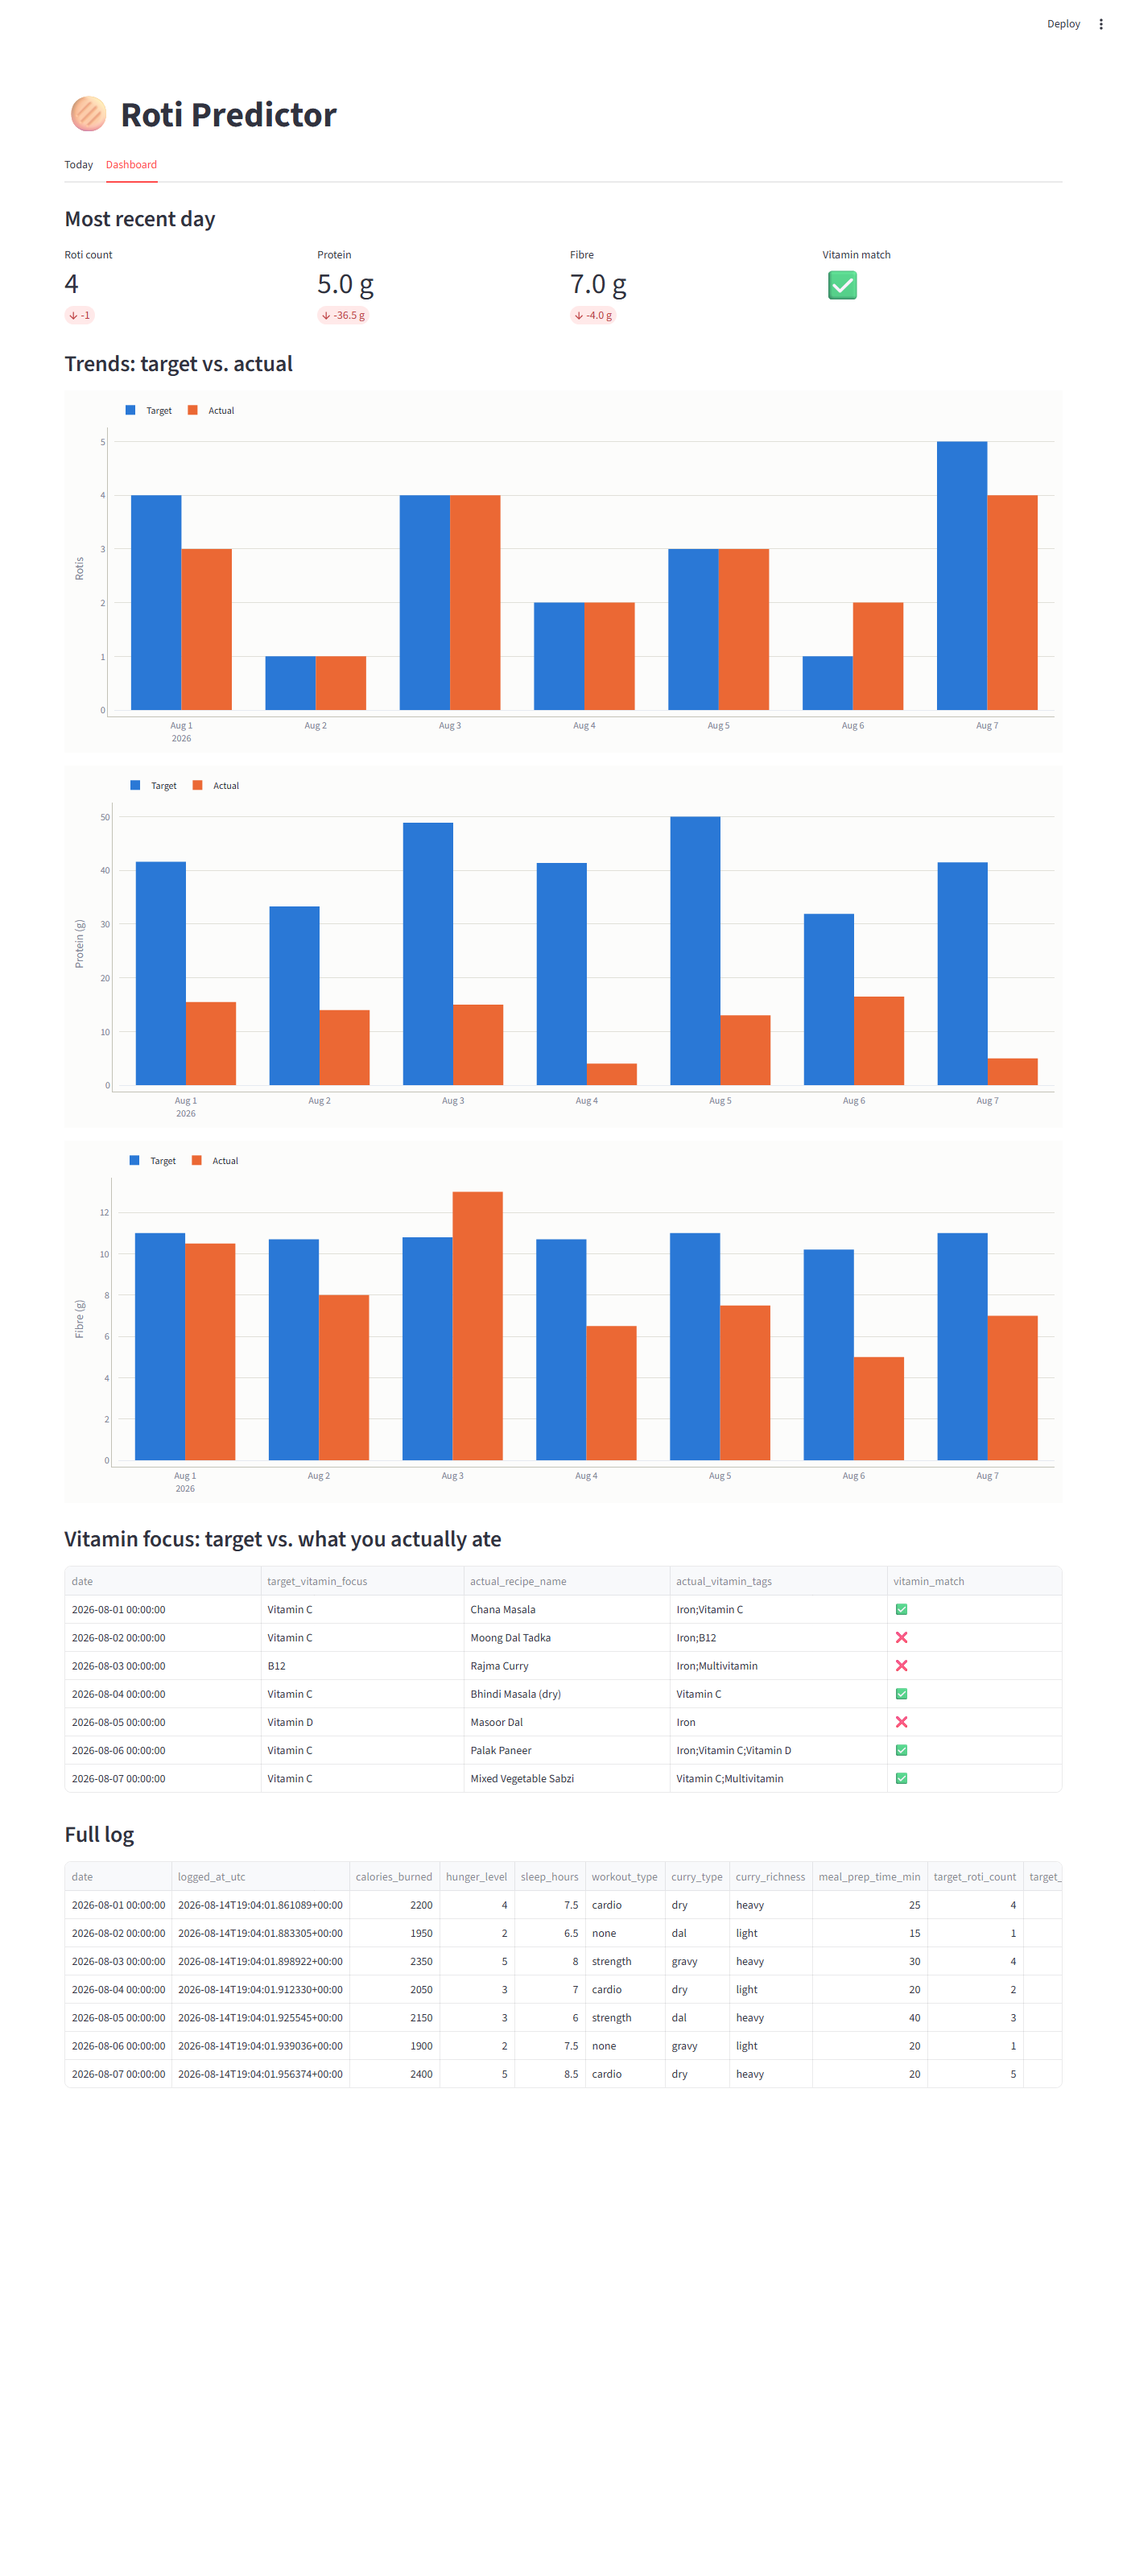
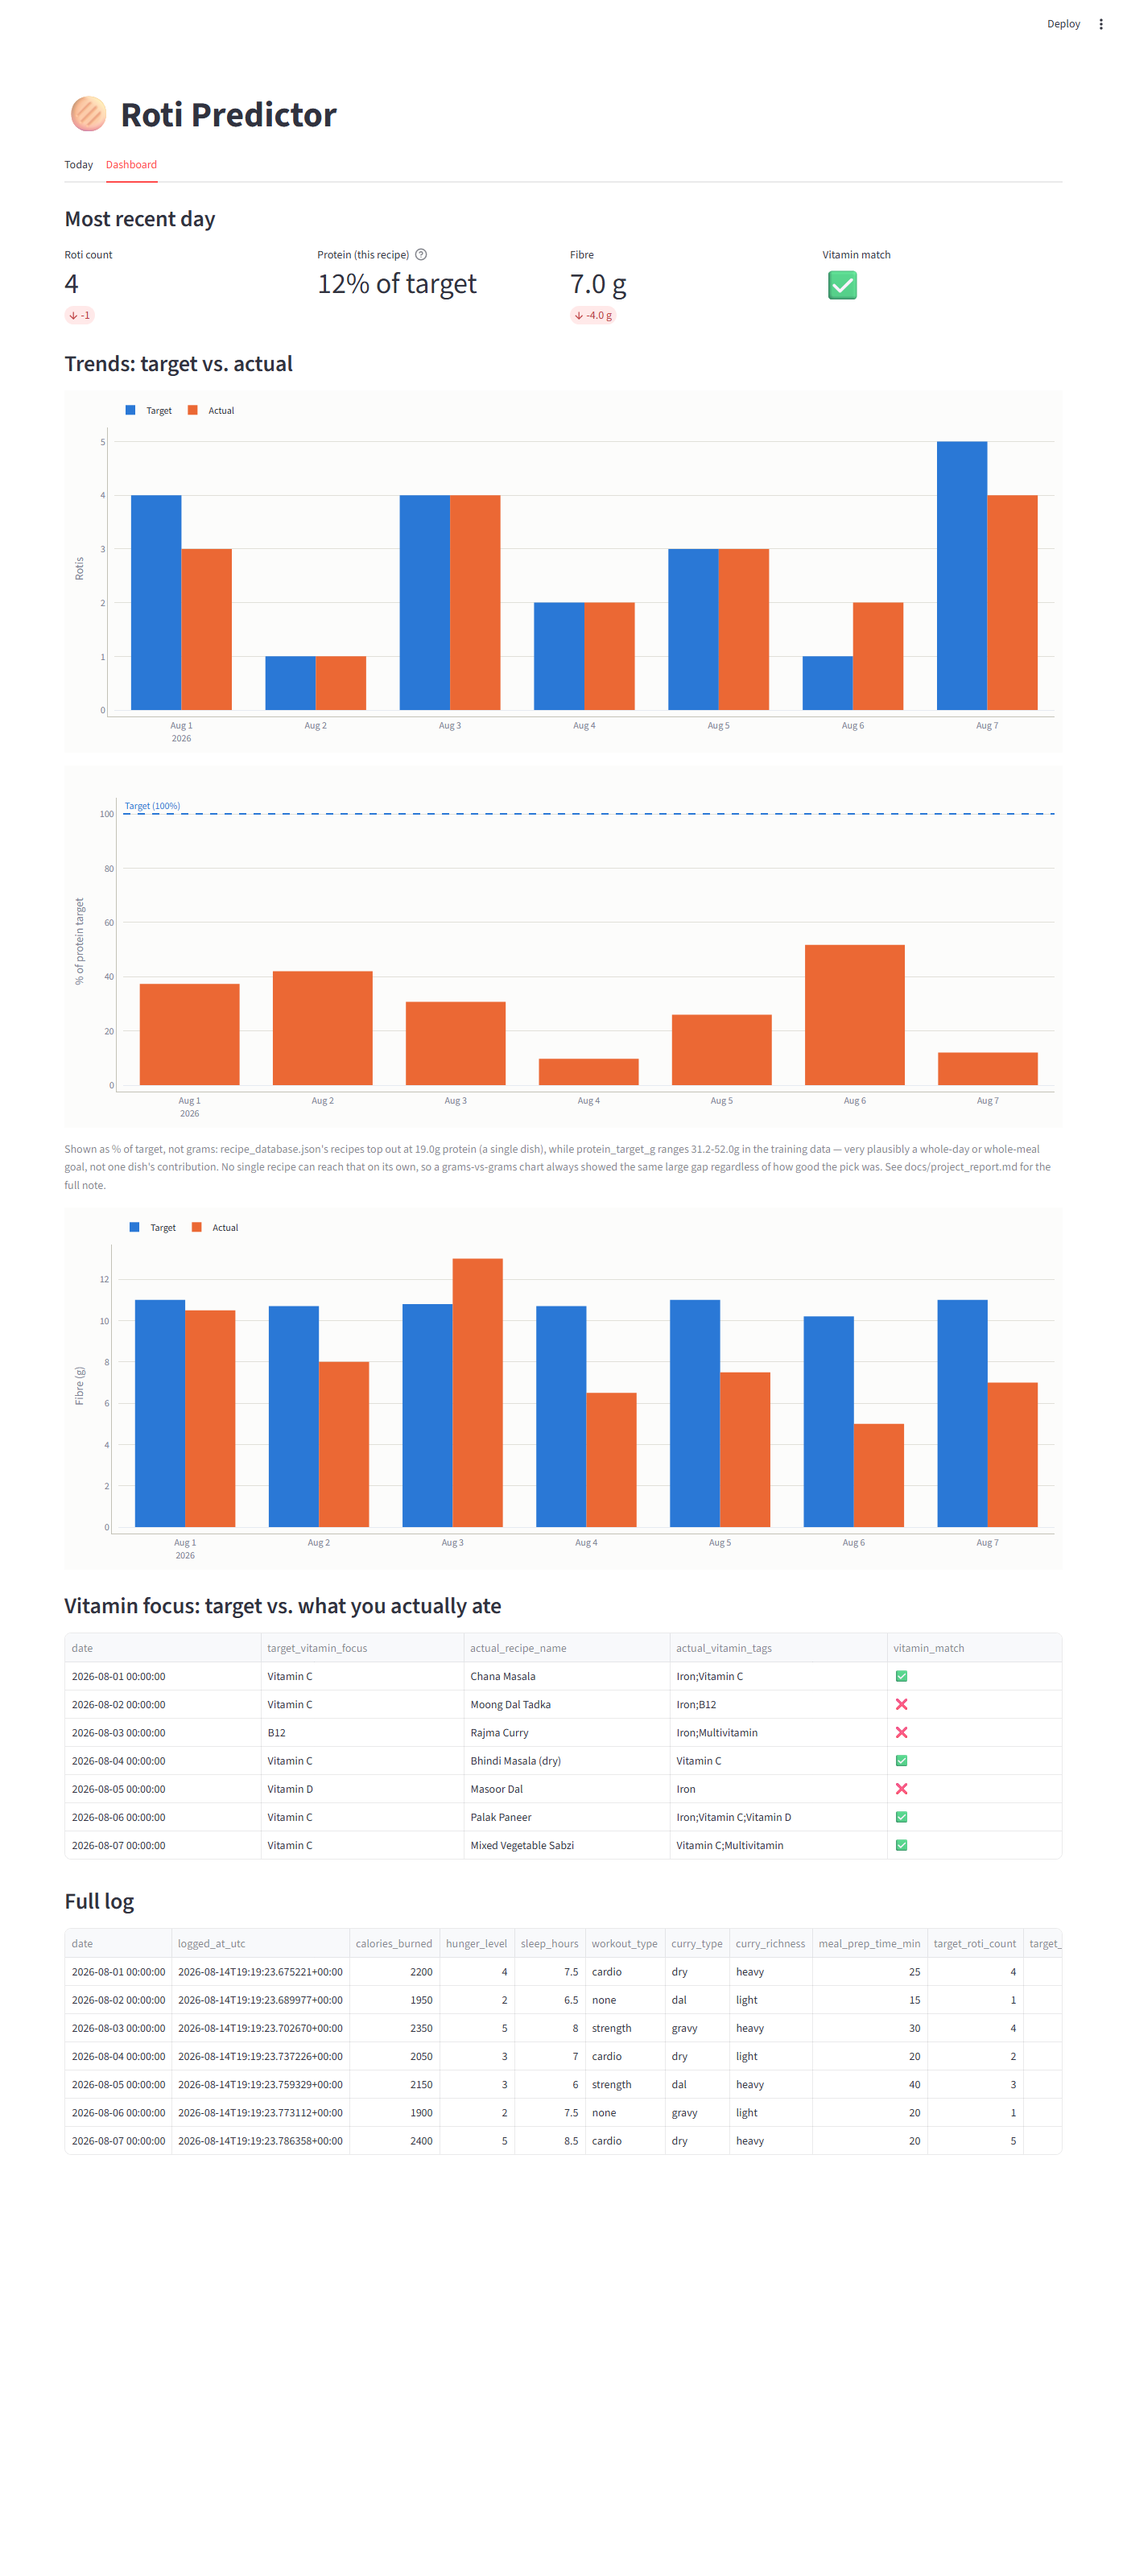
Fix protein target vs. recipe scale mismatch
Diagnosed precisely rather than guessed: protein_target_g ranges
31.2-52.0g in the training data, but every recipe in
recipe_database.json tops out at 19.0g (min 4.0g, mean 13.1g) - no
single dish can ever reach even the lowest historical target. fibre
doesn't have this problem (recipe range 3-14g nearly covers the
8-14g target range), so only protein needed a fix.

- src/recipe_agent.py: documented in score_recipe's docstring that the
  ranking math isn't actually broken by this - when a target is
  unreachable by any candidate, minimizing distance correctly reduces
  to "prefer more protein," which is the right behavior. No logic
  change, just making this explicit instead of silent.
- src/app_logic.py: new build_pct_of_target_chart() - a single-series
  "% of target met" bar with a 100% reference line, honest regardless
  of the underlying scale gap, replacing the misleading grams-vs-grams
  comparison that always showed the same large gap no matter how good
  the recipe pick was.
- src/app.py: Dashboard's protein trend now uses the % chart (with an
  explanatory caption); the "Most recent day" protein stat tile shows
  % of target instead of an always-strongly-negative gram delta.
  Fibre and roti_count keep the original grams-vs-grams chart, since
  those scales are legitimately comparable.
- docs/project_report.md: limitation upgraded from "flagged" to
  "found and fixed" with the real numbers.
- docs/screenshots/dashboard_tab.png: regenerated against the fix.
[…]

diff --git a/tests/test_app_logic.py b/tests/test_app_logic.py
@@ -211,6 +211,63 @@ def test_real_daily_context_csv_never_modified_by_raw_feedback(tmp_path):
 
 
 # ---------------------------------------------------------------------------
+# Charts
+# ---------------------------------------------------------------------------
+
+def _sample_trend_df():
+    return pd.DataFrame({
+        "date": pd.to_datetime(["2026-08-01", "2026-08-02", "2026-08-03"]),
+        "target_roti_count": [3, 2, 4],
+        "actual_roti_count": [2, 2, 3],
+        "target_protein_target_g": [42.0, 38.0, 50.0],
+        "actual_protein_g": [15.5, 14.0, 17.0],
+    })
+
+
+def test_build_trend_chart_has_two_series_correct_colors():
+    df = _sample_trend_df()
+    fig = al.build_trend_chart(df, "target_roti_count", "actual_roti_count", "Rotis")
+    assert len(fig.data) == 2
+    assert fig.data[0].name == "Target"
+    assert fig.data[0].marker.color == al.COLOR_TARGET
+    assert fig.data[1].name == "Actual"
+    assert fig.data[1].marker.color == al.COLOR_ACTUAL
+
+
+def test_build_pct_of_target_chart_computes_correct_percentages():
+    df = _sample_trend_df()
+    fig = al.build_pct_of_target_chart(df, "target_protein_target_g", "actual_protein_g", "protein")
+    # 15.5/42.0*100 = 36.9, 14.0/38.0*100 = 36.8, 17.0/50.0*100 = 34.0
+    assert list(fig.data[0].y) == pytest.approx([36.9, 36.8, 34.0], abs=0.1)
+
+
+def test_build_pct_of_target_chart_is_single_series_with_reference_line():
+    df = _sample_trend_df()
+    fig = al.build_pct_of_target_chart(df, "target_protein_target_g", "actual_protein_g", "protein")
+    assert len(fig.data) == 1  # not a misleading two-bar comparison
+    assert fig.data[0].marker.color == al.COLOR_ACTUAL
+    # the 100% reference line is a layout shape, not a second data series
+    assert len(fig.layout.shapes) == 1
+    assert fig.layout.shapes[0].y0 == 100
+
+
+def test_build_pct_of_target_chart_never_exceeds_reasonable_bounds_for_protein_data():
+    """Regression guard for the actual scale mismatch this chart exists to
+    fix: with real recipe_database.json values (max 19.0g protein) against
+    real training-data targets (min 31.2g), % of target should always be
+    well under 100% — if this ever shows >100%+ regularly, the underlying
+    scale assumption this chart documents has changed and the chart choice
+    should be revisited."""
+    df = pd.DataFrame({
+        "date": pd.to_datetime(["2026-08-01"]),
+        "target_protein_target_g": [31.2],  # lowest observed target
+        "actual_protein_g": [19.0],  # highest possible recipe protein
+    })
+    fig = al.build_pct_of_target_chart(df, "target_protein_target_g", "actual_protein_g", "protein")
+    assert fig.data[0].y[0] < 100  # even the best case never reaches the target
+
+
+# ---------------------------------------------------------------------------
 # Real trained models
 # ---------------------------------------------------------------------------
 

diff --git a/src/app_logic.py b/src/app_logic.py
@@ -230,3 +230,45 @@ def build_trend_chart(df: pd.DataFrame, target_col: str, actual_col: str, y_titl
         bargap=0.25,
     )
     return fig
+
+
+def build_pct_of_target_chart(df: pd.DataFrame, target_col: str, actual_col: str, label: str) -> go.Figure:
+    """Percent of target met — for a metric where "actual" and "target"
+    are NOT directly comparable quantities (see protein_target_g below),
+    a grouped-bar chart of the raw numbers is actively misleading: it
+    visually implies the two bars should be roughly equal, when they
+    structurally can't be. This shows actual/target as a single-series
+    bar with a dashed reference line at 100%, which is honest regardless
+    of the underlying scale gap — a real percentage rather than a
+    fabricated equivalence.
+
+    Used for protein_target_g specifically: recipe_database.json's
+    protein_g tops out at 19.0g (a single dish), while protein_target_g
+    ranges 31.2-52.0g in the training data (very plausibly a whole-day or
+    whole-meal goal, not one dish's contribution) — no recipe can ever
+    reach even the lowest observed target, so a grams-vs-grams comparison
+    always shows the same large gap regardless of how good the pick was.
+    fibre_target_g doesn't have this problem (recipe range 3-14g overlaps
+    target range 8-14g almost completely) and keeps the grouped-bar chart.
+    """
+    pct = (df[actual_col] / df[target_col] * 100).round(1)
+    fig = go.Figure()
+    fig.add_trace(go.Bar(
+        x=df["date"], y=pct, name=f"% of {label} target met",
+        marker_color=COLOR_ACTUAL, marker_line_width=0,
+    ))
+    fig.add_hline(y=100, line_dash="dash", line_color=COLOR_TARGET, line_width=2,
+                  annotation_text="Target (100%)", annotation_position="top left",
+                  annotation_font_color=COLOR_TARGET)
+    fig.update_layout(
+        plot_bgcolor=COLOR_SURFACE,
+        paper_bgcolor=COLOR_SURFACE,
+        font_color=COLOR_TEXT_SECONDARY,
+        yaxis_title=f"% of {label} target",
+        xaxis=dict(showgrid=False, linecolor=COLOR_AXIS),
+        yaxis=dict(showgrid=True, gridcolor=COLOR_GRIDLINE, linecolor=COLOR_AXIS),
+        showlegend=False,
+        margin=dict(l=10, r=10, t=40, b=10),
+        bargap=0.25,
+    )
+    return fig

diff --git a/src/app.py b/src/app.py
@@ -165,9 +165,12 @@ with tab_dashboard:
     else:
         st.subheader("Most recent day")
         latest = log_df.iloc[-1]
+        protein_pct = latest["actual_protein_g"] / latest["target_protein_target_g"] * 100
         c1, c2, c3, c4 = st.columns(4)
         c1.metric("Roti count", int(latest["actual_roti_count"]), delta=int(latest["delta_roti_count"]))
-        c2.metric("Protein", f"{latest['actual_protein_g']:.1f} g", delta=f"{latest['delta_protein_g']:+.1f} g")
+        c2.metric("Protein (this recipe)", f"{protein_pct:.0f}% of target",
+                  help="A single recipe's protein vs. your daily/meal protein target aren't the same "
+                       "scale (see the note below the trend chart) — shown as % of target, not grams.")
         c3.metric("Fibre", f"{latest['actual_fibre_g']:.1f} g", delta=f"{latest['delta_fibre_g']:+.1f} g")
         c4.metric("Vitamin match", "✅" if latest["vitamin_match"] else "❌")
 
@@ -176,10 +179,19 @@ with tab_dashboard:
             al.build_trend_chart(log_df, "target_roti_count", "actual_roti_count", "Rotis"),
             width='stretch',
         )
+
         st.plotly_chart(
-            al.build_trend_chart(log_df, "target_protein_target_g", "actual_protein_g", "Protein (g)"),
+            al.build_pct_of_target_chart(log_df, "target_protein_target_g", "actual_protein_g", "protein"),
             width='stretch',
         )
+        st.caption(
+            "Shown as % of target, not grams: recipe_database.json's recipes top out at 19.0g protein "
+            "(a single dish), while protein_target_g ranges 31.2-52.0g in the training data — very "
+            "plausibly a whole-day or whole-meal goal, not one dish's contribution. No single recipe "
+            "can reach that on its own, so a grams-vs-grams chart always showed the same large gap "
+            "regardless of how good the pick was. See docs/project_report.md for the full note."
+        )
+
         st.plotly_chart(
             al.build_trend_chart(log_df, "target_fibre_target_g", "actual_fibre_g", "Fibre (g)"),
             width='stretch',

diff --git a/src/recipe_agent.py b/src/recipe_agent.py
@@ -78,7 +78,23 @@ def score_recipe(recipe: dict, protein_target_g: float, fibre_target_g: float, v
     the two targets (both fields are in grams, roughly comparable scale,
     so a raw sum is a simple, defensible heuristic — not normalized or
     weighted beyond that). A vitamin_focus match subtracts a flat bonus
-    (see VITAMIN_MATCH_BONUS)."""
+    (see VITAMIN_MATCH_BONUS).
+
+    Known scale gap, deliberately left as-is: protein_target_g ranges
+    31.2-52.0g in the training data, but no single recipe in
+    recipe_database.json exceeds 19.0g protein (very plausibly because
+    protein_target_g reflects a whole-day or whole-meal goal, while a
+    recipe is one dish). That means abs(protein_g - protein_target_g) is
+    always protein_target_g - protein_g (target is never reached), which
+    reduces to "prefer whichever candidate has more protein" — the
+    mathematically correct behavior when a target is unreachable by any
+    candidate, not a bug. What it does mean: don't read the raw distance
+    value as "how close this got to the target" for protein specifically
+    (fibre_target_g doesn't have this problem — recipe fibre spans 3-14g,
+    almost fully overlapping the 8-14g target range). The dashboard
+    (src/app_logic.py's build_pct_of_target_chart) shows this as % of
+    target for protein rather than a misleading grams-vs-grams gap.
+    """
     nutrition_distance = abs(recipe["protein_g"] - protein_target_g) + abs(recipe["fibre_g"] - fibre_target_g)
     vitamin_match = vitamin_focus in recipe.get("vitamin_tags", [])
     return nutrition_distance - (VITAMIN_MATCH_BONUS if vitamin_match else 0.0)

diff --git a/docs/project_report.md b/docs/project_report.md
@@ -201,6 +201,24 @@ generation, not the other way around.
   European 8, Mexican 7). Layer 2 can only be as good as its candidate
   pool — a bad day for available recipes matching the time budget can
   leave only 1-2 real candidates for the model to choose from.
+- **`protein_target_g` and recipe protein are on different scales — found
+  and fixed.** `protein_target_g` ranges 31.2-52.0g in the training data;
+  every recipe in `recipe_database.json` tops out at 19.0g (min 4.0g,
+  mean 13.1g) — no single dish can ever reach even the lowest historical
+  target, very plausibly because the target reflects a whole-day or
+  whole-meal goal while a recipe is one dish, and no per-roti nutrition
+  data exists to fill the gap without inventing a number. The ranking
+  math in `src/recipe_agent.py` isn't actually broken by this — when a
+  target is unreachable by any candidate, minimizing the distance
+  correctly reduces to "prefer more protein," which is the right
+  behavior — but the dashboard's original grams-vs-grams chart made it
+  look broken (always the same large gap, regardless of how good the
+  pick was). Fixed by showing protein as % of target
+  (`build_pct_of_target_chart` in `src/app_logic.py`) instead of a
+  misleading two-bar comparison; documented in `score_recipe`'s
+  docstring. `fibre_target_g` doesn't have this problem — recipe fibre
+  spans 3-14g, nearly the full 8-14g target range — and keeps the
+  grams-vs-grams chart.
 - **One unresolved data pattern**: `pairs_with_roti` is `True` for every
   Indian recipe and `False` for every European/Mexican one, with no
   exceptions — plausible, but flagged as an info note
